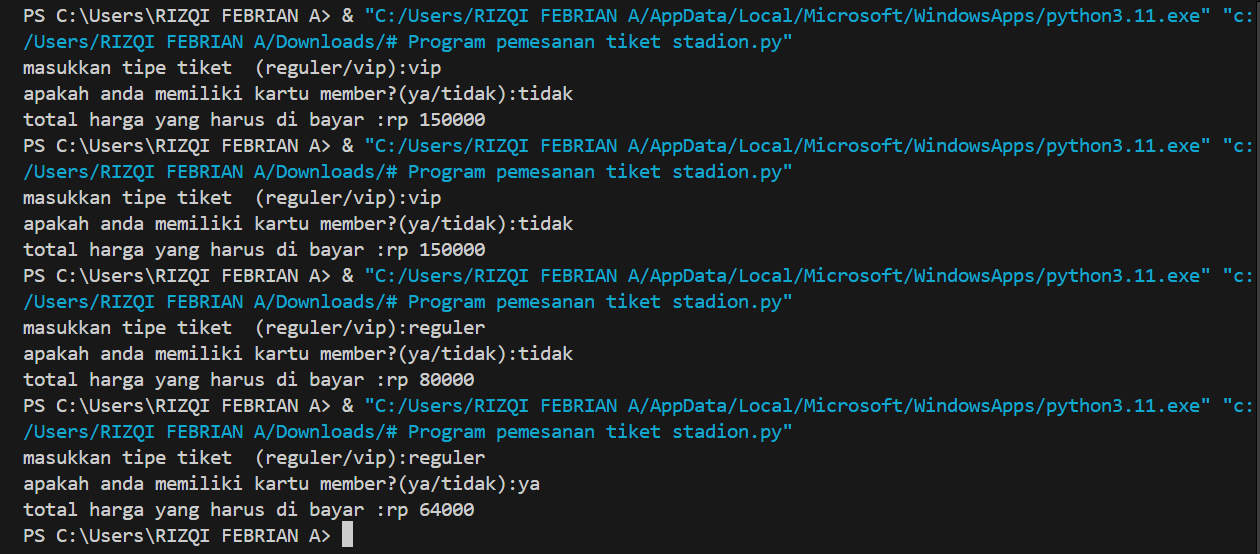
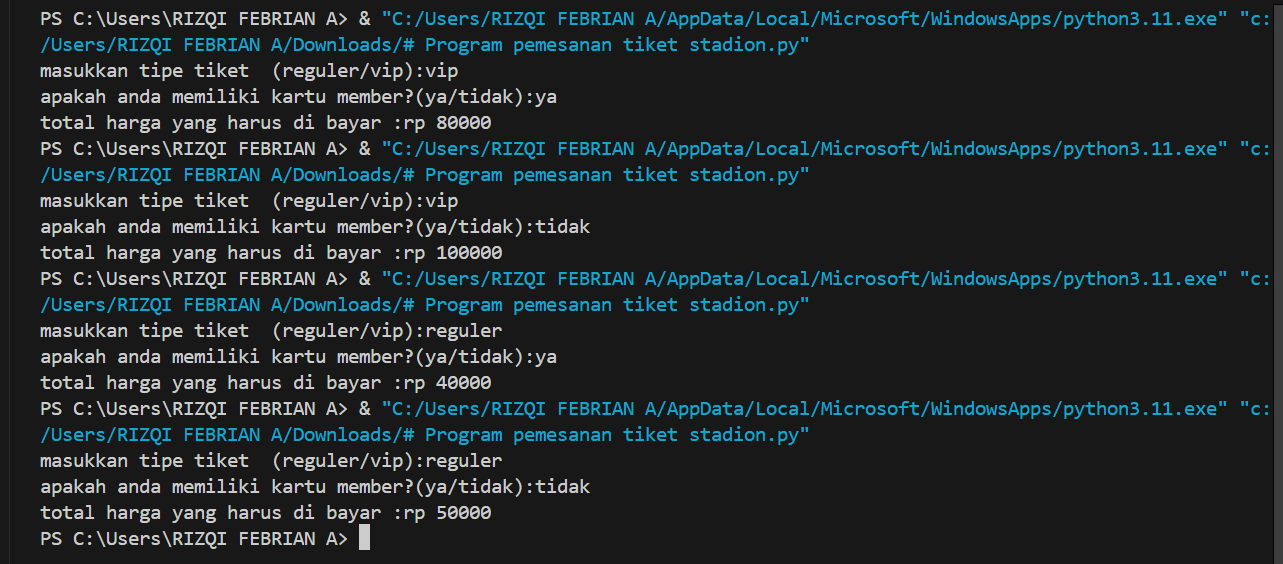
menambahkan file

Changed region(s): [[0.0, 0.0, 1.0, 1.0]]

diff --git a/README.md b/README.md
@@ -1,1 +1,172 @@
 # lab02
+
+ nama  : Rizqi febrian arrahman
+
+ kelas :TI.24.A.5
+
+ nim : 312410544
+
+ mata kuliah : Bahasa pemrograman
+
+ # Program pemesanan tiket stadion
+
+## flowchart
+
+![gambar](ft1.png)
+
+## berikut adalah penjelasan terkait flowchart di atas
+
+mulai:proses dimulai dengan langakah ini, ditandai oleh simbol oval
+
+![gambar](ft2.png)
+
+inisialisasi harga tiket:
+
+Tiket Reguler :Rp50.000
+
+Tiket vip : 100.000
+
+Diskon member:20%
+
+Tentukan harga untuk tiket reguler dan tiket vip,serta diskon yang di berikan untuk member
+
+![gambar](ft5.png)
+
+Input Tipe Tiket:Pengguna diminta untuk memasukan tipe tiket yang ingin dibeli, apakah "reguler"atau"vip".
+
+![gambar](ft6.png)
+
+input status member:Pengguna diminta untuk memasukan status keanggotaan mereka apakah memiliki kartu member("ya")atau("tidak")
+
+![gambar]ft7.png
+
+Validasi Tipe Tiket: Program memeriksa apakah tipe tiket yang diinput adalah "reguler" atau "VIP":
+
+Jika tipe tiket adalah "reguler", lanjutkan ke langkah berikutnya dengan harga tiket diatur ke Rp50.000.
+
+Jika tipe tiket adalah "VIP", lanjutkan ke langkah berikutnya dengan harga tiket diatur ke Rp100.000.
+
+Jika tipe tiket bukan "reguler" atau "VIP", anggap sebagai input yang tidak valid dan minta pengguna untuk memasukkan tipe tiket yang benar.
+
+![gambar](ft8.png)
+
+Periksa Apakah Harga Tidak Nol:
+
+Program memeriksa apakah harga tiket sudah diatur (tidak nol):
+
+Jika harga sudah diatur, lanjutkan ke langkah berikutnya.
+
+Jika harga belum diatur (nol), kembali ke input tipe tiket.
+
+![gambar](ft9.png)
+
+Cek Status Member dan Hitung Diskon:
+
+Program memeriksa apakah pengguna memiliki kartu member:
+
+Jika pengguna memiliki kartu member ("ya"), harga akhir dihitung dengan memberikan diskon 20% (harga * 0.8).
+
+Jika pengguna tidak memiliki kartu member ("tidak"), harga akhir tetap sama dengan harga tiket tanpa diskon.
+
+![gambar](ft10.png)
+
+Tampilkan Harga Akhir:
+
+Program menampilkan total harga tiket yang harus dibayar oleh pengguna.
+
+![gambar](ft11.png)
+
+Selesai: Proses selesai, ditandai oleh simbol oval.
+
+![gambar](ft12.png)
+
+##Program python
+
+seperti ini jika algoritma di atas yang di buat dalam bentuk flowchart di jadikan sebuah program dengan bahasa python
+
+![gambar](sspy.png)
+
+##Hasil eksekusi
+
+ini hasil eksekusi dari kode program di atas
+
+![gambar](sshasil.png)
+
+
+# Membuat program dan flowchart kalkulator sederhana menggunakan if elif else untuk menentukan operasi aritmatika
+
+## flowchart
+
+![gambar](fc1.png)
+
+## Berikut adalah penjelasan flowchart di atas
+
+![gambar](fc2.png)
+
+mulai:proses dimulai dengan langakah ini, ditandai oleh simbol oval
+
+![gambar](fc3.png)
+
+Pengguna diminta menginputkan angka pertama.
+
+![gambar](fc4.png)
+
+Pengguna diminta untuk menginputkan angka kedua.
+
+![gambar](fc5.png)
+
+Pengguna diminta untuk menginputkan operator (+, -, *, /).
+
+![gambar](fc6.png)
+
+Apakah operator = +?
+
+-Jika Ya, maka Hasil = angka pertama + angka kedua. Dan lanjut ke no10.
+
+-Jika Tidak, maka lanjut ke no6.
+
+![gambar](fc7.png)
+
+Apakah operator = -?
+
+-Jika Ya, maka Hasil = angka pertama - angka kedua. Dan lanjut ke no10.
+
+-Jika Tidak, maka lanjut ke no7.
+
+![gambar](fc8.png)
+
+Apakah operator = *?
+
+-Jika Ya, maka Hasil = angka pertama * angka kedua. Dan lanjut ke no10.
+
+-Jika Tidak, maka lanjut ke no8.
+
+![gambar](fc9.png)
+
+Apakah operator = /?
+
+-Jika Ya, maka lanjut ke no9.
+
+-Jika Tidak, maka Hasil = "Error: operator tidak valid!". Dan lanjut ke no10.
+
+![gambar](fc10.png)
+
+Apakah angka kedua ≠ 0?
+
+-Jika Ya, maka Hasil = angka pertama / angka kedua. Dan lanjut ke no10.
+
+-Jika Tidak, maka Hasil = "Error: pembagian dengan nol tidak diperbolehkan". Dan lanjut ke no10
+
+![gambar](fc11.png)
+
+Lalu output atau tampilkan Hasil.
+
+![gambar](fc12.png)
+
+Dan selesai diakhiri menggunakan simbol oval
+
+##Ini adalah program dalam bentuk python:
+
+![gambar](ss.png)
+
+## Hasil dari program di atas
